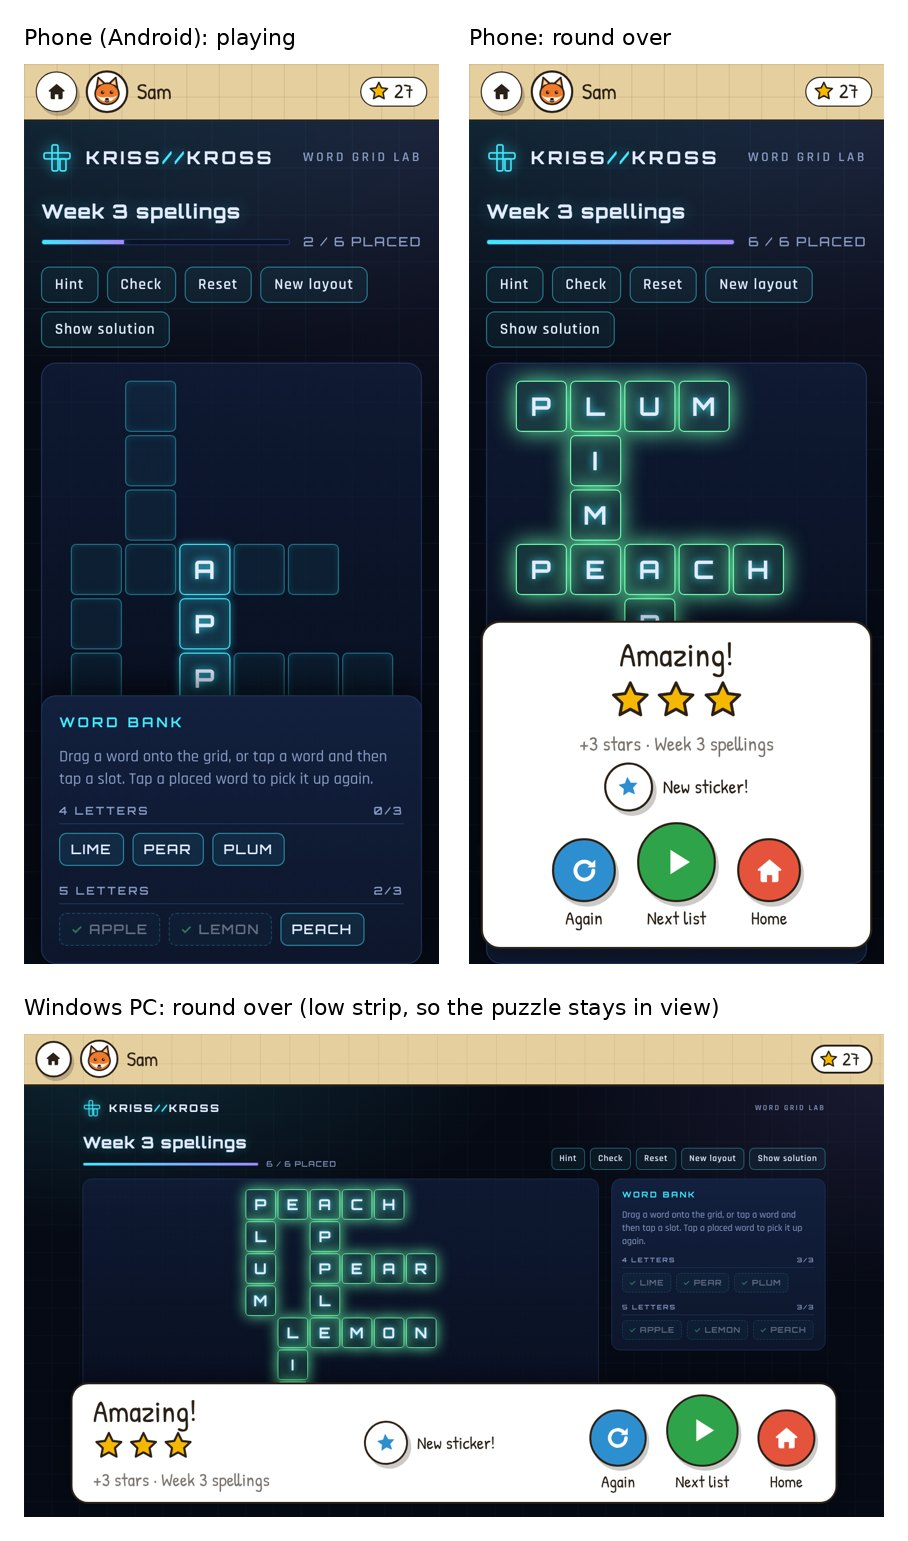
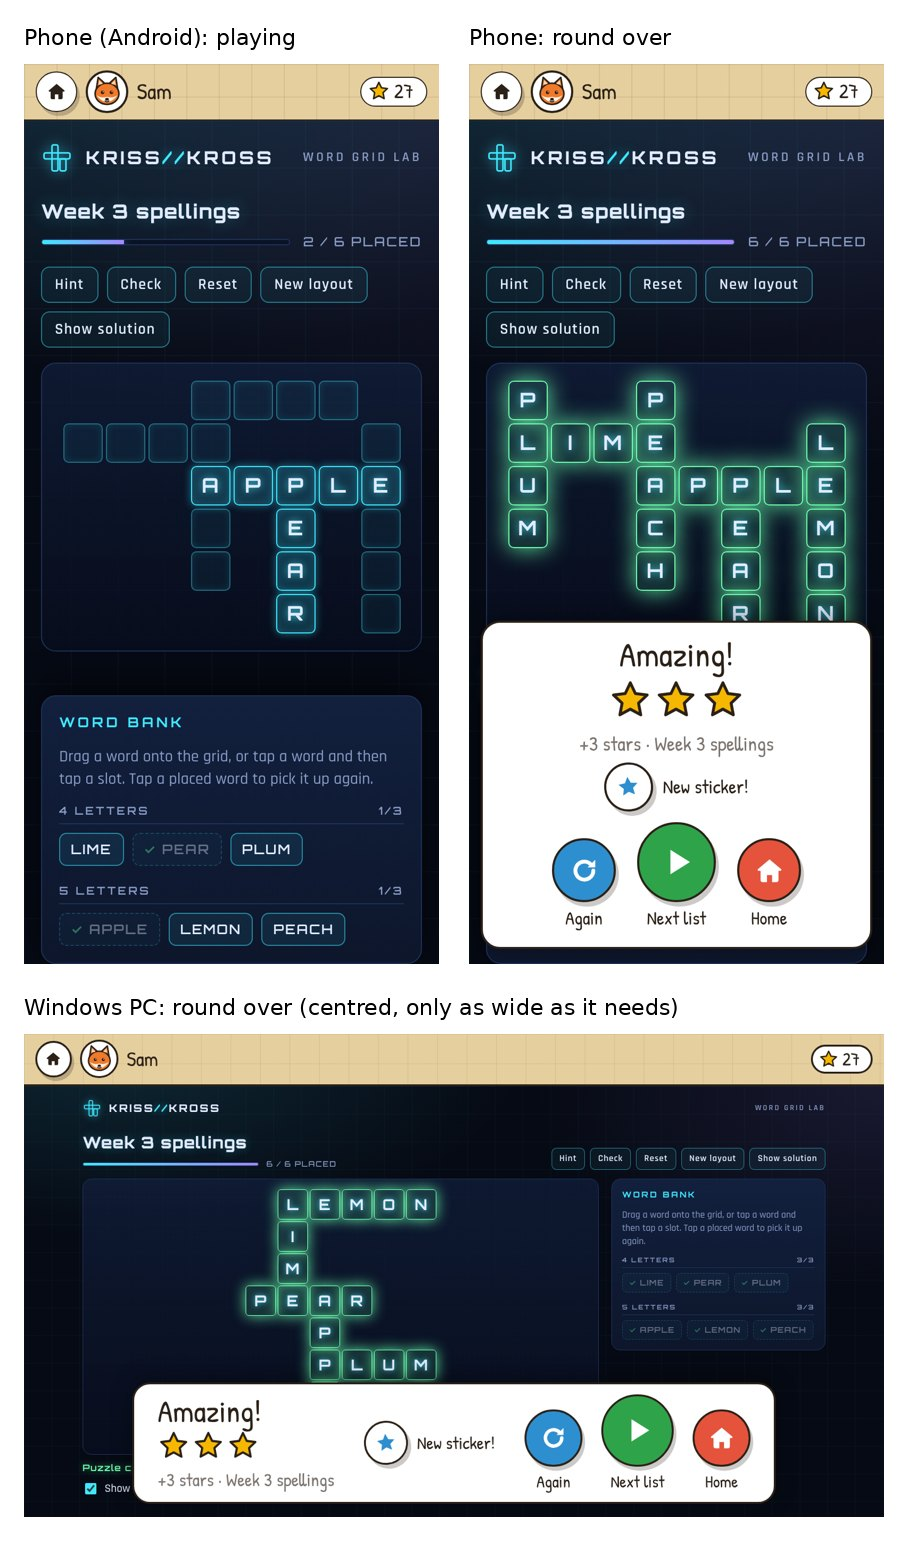
Review: shell look approved with changes; kid mode declined
Claude-Session: https://claude.ai/code/session_01Fxvn51HLnHkcZYA93zSo6i

diff --git a/docs/review/shell-mockup.html b/docs/review/shell-mockup.html
@@ -57,7 +57,7 @@
 
     /* Wide screens: a low strip along the bottom, so the finished game stays in view. */
     @media (min-width: 56rem) and (min-aspect-ratio: 4/3) {
-      .round-card { width: min(52rem, 100%); flex-direction: row; justify-content: space-between; gap: 1.2rem; padding: .7rem 1.4rem; }
+      .round-card { width: auto; max-width: 100%; flex-direction: row; gap: 2rem; padding: .7rem 1.6rem; }
       .round-card .sum { display: grid; justify-items: start; gap: .2rem; text-align: left; }
       .round-card .stars { font-size: 2.2rem; }
       .acts { margin-top: 0; }

diff --git a/docs/review/REVIEW.md b/docs/review/REVIEW.md
@@ -708,3 +708,14 @@ In `docs/review/mockups/`. The shell is `docs/review/shell-mockup.html`; it's re
 
   The buttons are hidden by a style rule added from outside; her file is unchanged.
 - **Waiting on Rob:** approve or change the shell's look (G2, G4) and choose 1, 2 or 3 for kid mode (G8).
+
+### Rob's decisions on the mockups (2026-10-30)
+
+- **Shell look (G2, G4): approved, with two changes.**
+  1. **Wide screens:** the end-of-round panel stays centred and only as wide as its contents; it doesn't stretch across a large screen. Done in the mockup.
+  2. **Not every game works the same way.** Some will have levels or lists, some are free play. So the panel is built from what each game declares and reports:
+     - **The manifest declares how a game is played** (`"play": "rounds"` or `"play": "free"`) and what it can offer (levels, lists, a next one).
+     - **Rounds:** the panel shows only what applies. Stars appear only if the game gives stars; "what was played" only if it reports it; ▶ Next only when the game says there is a next one; ↻ Again only if it can restart. ⌂ Home is always there.
+     - **Free play:** no end-of-round panel; the shell's home button ends the visit.
+     - **TBC, decided with the first free-play game:** what free play counts towards (for example minutes played, or a sticker for something made).
+- **Kid mode for Kriss Kross (G8): declined.** The child sees her toolbar as she made it.
